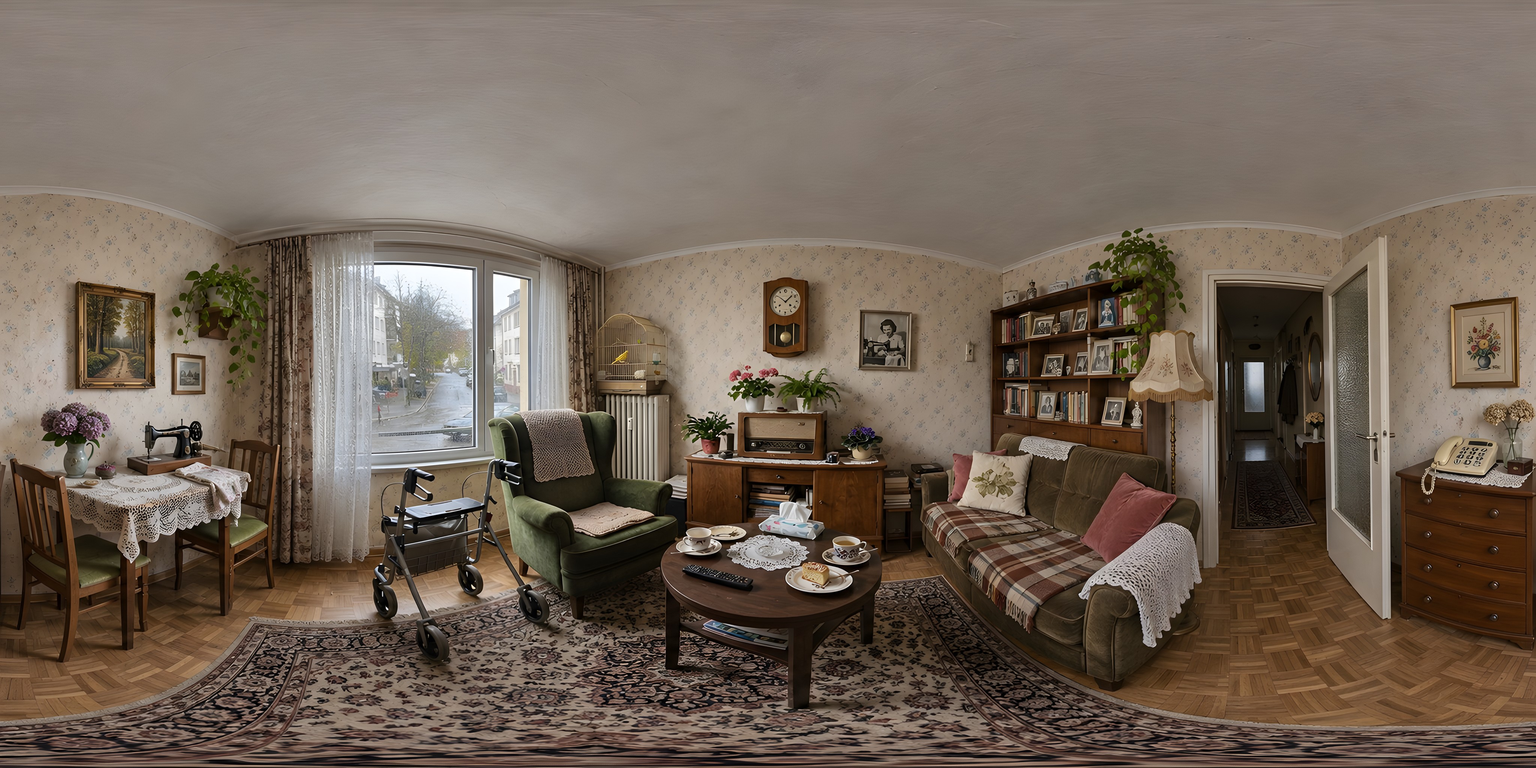
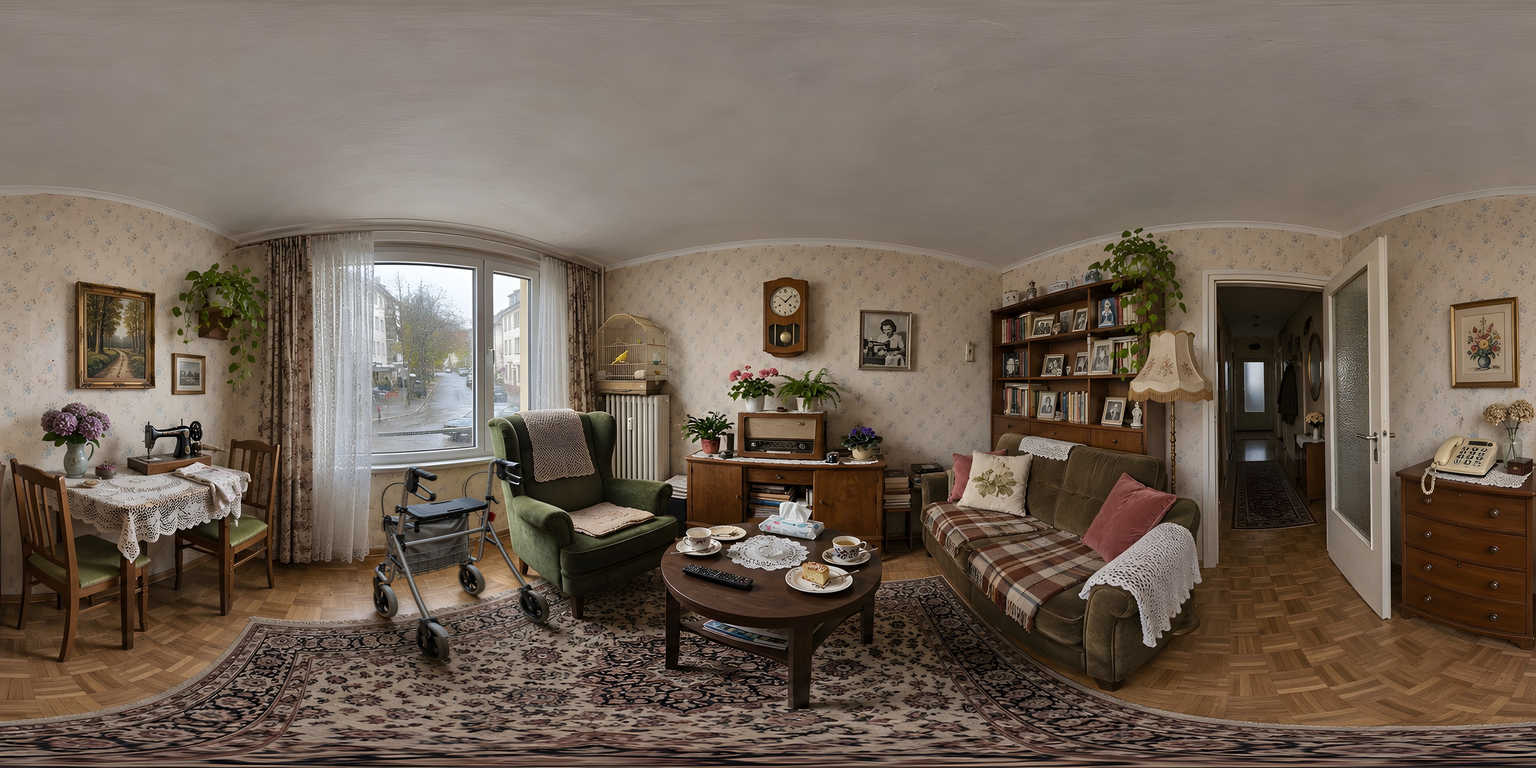
Wohnzimmer: Rollator scharf (ChatGPT-Bearbeitung, ins Panorama eingepasst)
Claude-Session: https://claude.ai/code/session_018xz3hR1CffNQymSRTgJLxV

Changed region(s): [[0.25, 0.5938, 0.3438, 0.8125], [0.2812, 0.8125, 0.3125, 0.8438]]

diff --git a/engel/spiel.html b/engel/spiel.html
@@ -65,7 +65,7 @@ const loadImg = src => new Promise((r, f) => { const i = new Image(); i.crossOri
 const rooms = {};
 async function buildRoom(name) {
   if (rooms[name]) return rooms[name];
-  const BILD_V = { bad: 3 };
+  const BILD_V = { bad: 3, wohnzimmer: 2 };
   const [photo, depth] = await Promise.all([loadImg(name + '360.jpg?v=' + (BILD_V[name] || 1)), loadImg(name + '360_tiefe.png')]);
   const dc = document.createElement('canvas'); dc.width = depth.width; dc.height = depth.height;
   const dx = dc.getContext('2d'); dx.drawImage(depth, 0, 0); const dd = dx.getImageData(0, 0, dc.width, dc.height).data;
